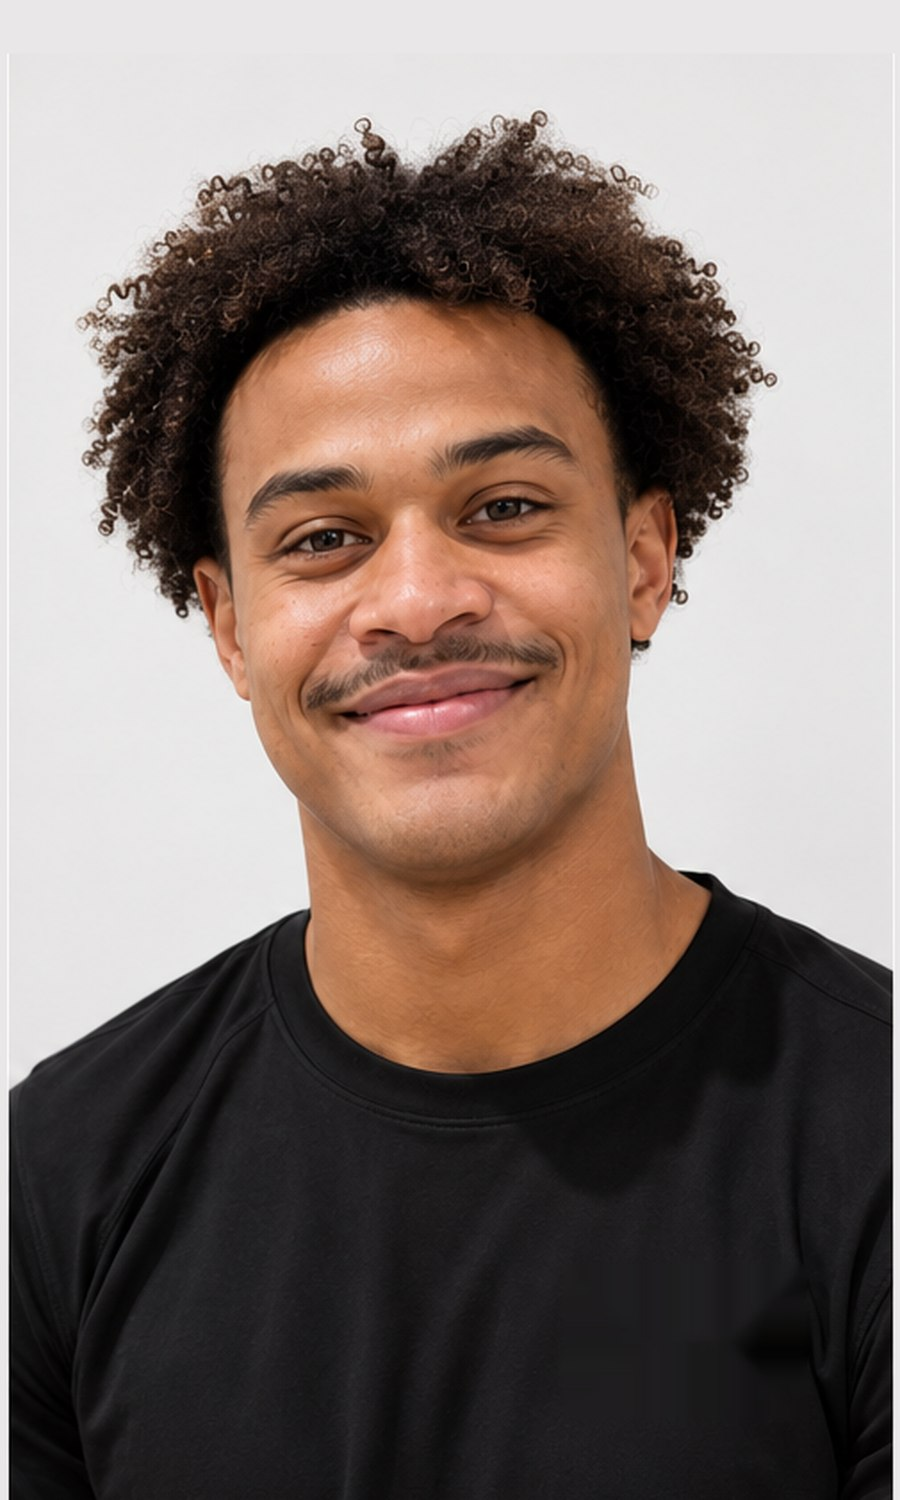
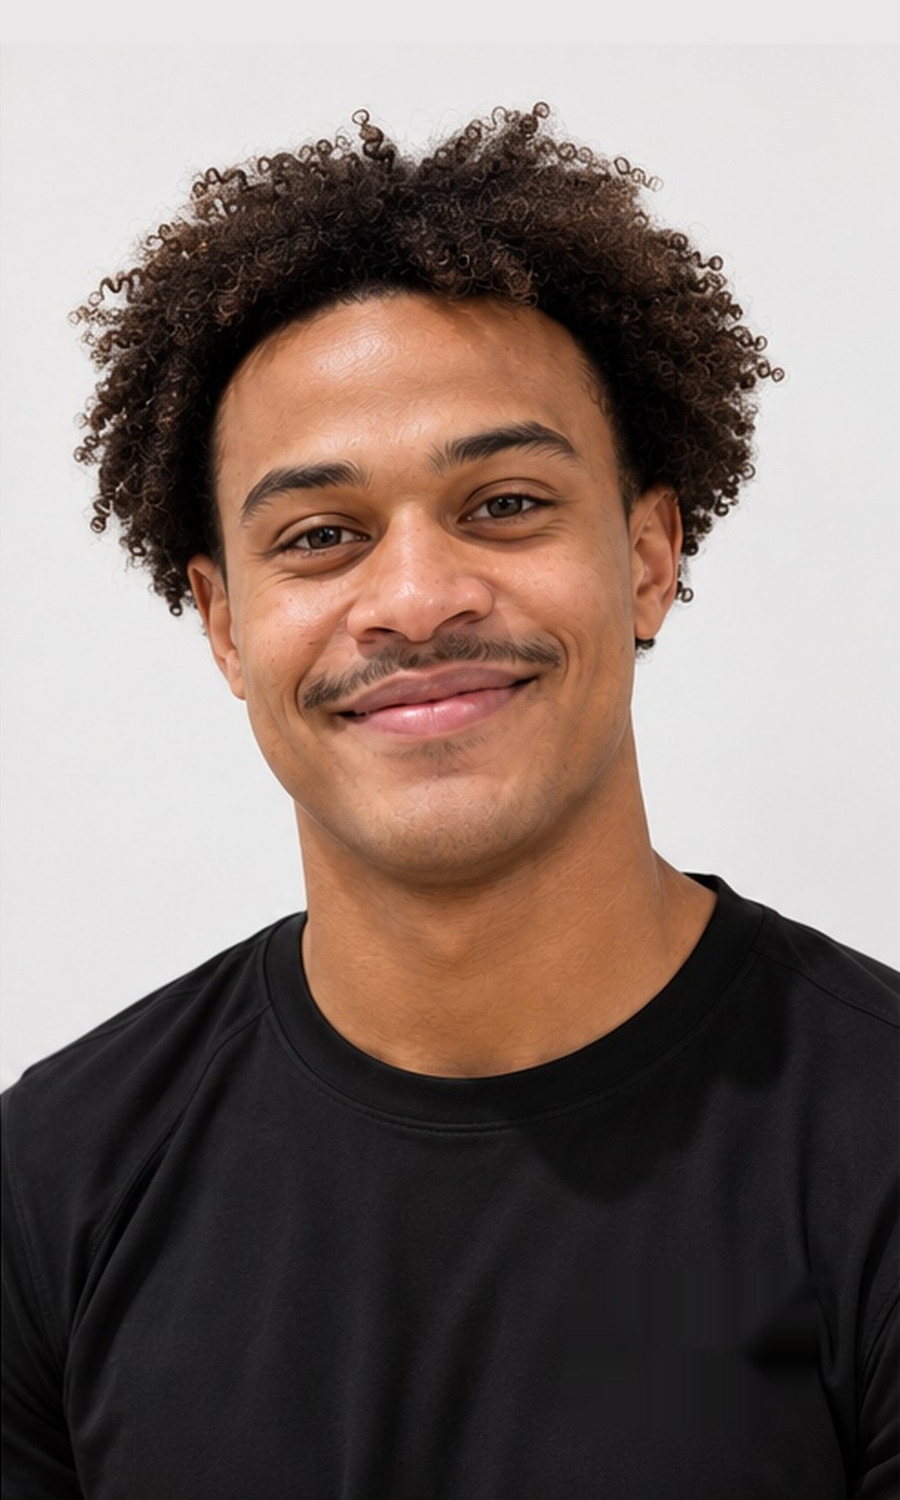
Make the calendar readable, and fix the border on Johnny's headshot
The day cells encoded sport as an 8px dot in orange or black. At that
size the two are a coin flip, and to anyone colour-blind or on a dim
phone screen they carry no information at all. Cells now say BB, VB or
ALL in words, with a count when a day holds more than one of a sport,
and each cell gets an aria-label naming the date and what is on it.

Added the sport filter. The calendar script already listened for
[data-filter] buttons and kept sport in its state — the buttons were
simply never put on the page.

The key was 11px text beside an 8px dot; it is now a real swatch at a
readable size.

On a wide screen the month and the selected day's classes sit side by
side, the panel sticky. It was a screen and a half below the grid, so
clicking a date looked like it did nothing.

Separately: the earlier logo correction left a ~7px bright frame around
Johnny's headshot — edge pixels read 193 against 151 further in, while
every other coach sits within 4, so his card alone showed a border.
Cropped past the halo and resampled; edge delta is now 1.5.

Claude-Session: https://claude.ai/code/session_011Z8dcUaxR3FNyiJKqV5Bn3

diff --git a/schedule.html b/schedule.html
@@ -79,13 +79,45 @@ src="https://www.facebook.com/tr?id=846020845059569&ev=PageView&noscript=1"
   .cal-nav { width:40px; height:40px; border-radius:50%; border:2px solid var(--black); background:var(--white); font-size:17px; line-height:1; cursor:pointer; transition:background .18s, color .18s; }
   .cal-nav:hover { background:var(--black); color:var(--white); }
   .cal-quick { display:flex; flex-wrap:wrap; align-items:center; justify-content:center; gap:10px 16px; max-width:900px; margin:0 auto 18px; }
-  .cal-legend { display:inline-flex; align-items:center; gap:6px; font-family:var(--font-sport); font-size:11px; font-weight:700; letter-spacing:.05em; text-transform:uppercase; color:var(--gray-dark); }
-  .cal-dot { width:8px; height:8px; border-radius:50%; display:inline-block; }
-  .cal-dot--bb { background:var(--orange); }
-  .cal-dot--vb { background:var(--black); }
-  .cal-dot--other { background:#9A9A9A; }
+  /* Sport filter — the calendar script already listened for these; the buttons
+     were simply never on the page. */
+  .cal-filters { display:flex; flex-wrap:wrap; justify-content:center; gap:8px; max-width:900px; margin:0 auto 14px; }
+  .cal-filter-btn { font-family:var(--font-sport); font-size:13px; font-weight:800; letter-spacing:.06em; text-transform:uppercase;
+    padding:9px 20px; border-radius:999px; border:2px solid var(--gray-mid); background:var(--white); color:var(--gray-dark);
+    cursor:pointer; transition:background .15s, color .15s, border-color .15s; min-height:40px; }
+  .cal-filter-btn:hover { border-color:var(--gray-dark); color:var(--near-black); }
+  .cal-filter-btn:focus-visible { outline:3px solid var(--orange); outline-offset:2px; }
+  .cal-filter-btn.active { background:var(--near-black); border-color:var(--near-black); color:var(--white); }
+  .cal-filter-btn--bb.active { background:var(--orange); border-color:var(--orange); }
+
+  /* Key — was 11px text beside an 8px dot. */
+  .cal-key { display:flex; flex-wrap:wrap; align-items:center; justify-content:center; gap:10px 22px; max-width:900px; margin:0 auto 20px; }
+  .cal-key-item { display:inline-flex; align-items:center; gap:8px; font-family:var(--font-sport); font-size:13px; font-weight:700;
+    letter-spacing:.05em; text-transform:uppercase; color:var(--gray-dark); }
+
+  /* Day-cell sport tags: the label carries the meaning, colour only reinforces it. */
+  .cal-tags { display:flex; flex-wrap:wrap; justify-content:center; gap:3px; min-height:16px; }
+  .cal-tag { display:inline-flex; align-items:center; gap:3px; font-family:var(--font-sport); font-size:10px; font-weight:800;
+    letter-spacing:.04em; line-height:1; padding:3px 5px; border-radius:4px; color:var(--white); }
+  .cal-tag i { font-style:normal; font-size:9px; opacity:.85; }
+  .cal-tag--bb { background:var(--orange); }
+  .cal-tag--vb { background:var(--black); }
+  .cal-tag--other { background:#6E6E6E; }
+  .cal-cell--selected .cal-tag--vb { background:var(--white); color:var(--black); }
+  .cal-cell--selected .cal-tag--other { background:var(--white); color:#4A4A4A; }
+  @media (max-width: 720px) {
+    .cal-tag { font-size:9px; padding:2px 4px; }
+    .cal-tag i { display:none; }
+    .cal-filter-btn { font-size:12px; padding:8px 15px; }
+  }
   .cal-closed-key { width:12px; height:12px; border-radius:3px; background:repeating-linear-gradient(45deg,#E4E0D8,#E4E0D8 3px,#F7F5F0 3px,#F7F5F0 6px); border:1px solid #D6D1C7; display:inline-block; }
   .cal-wrap { max-width:900px; margin:0 auto; }
+  .cal-layout { max-width:900px; margin:0 auto; }
+  @media (min-width: 1040px) {
+    .cal-layout { max-width:1180px; display:grid; grid-template-columns:minmax(0,1.3fr) minmax(330px,1fr); gap:32px; align-items:start; }
+    .cal-layout .cal-wrap { max-width:none; }
+    .cal-layout .cal-day-panel { position:sticky; top:104px; max-height:calc(100vh - 130px); overflow-y:auto; margin-top:0; }
+  }
   .cal-grid-head { display:grid; grid-template-columns:repeat(7,minmax(0,1fr)); gap:6px; margin-bottom:6px; }
   .cal-grid-head span { text-align:center; font-family:var(--font-sport); font-size:11px; font-weight:700; letter-spacing:.06em; text-transform:uppercase; color:var(--gray-dark); }
   .cal-grid { display:grid; grid-template-columns:repeat(7,minmax(0,1fr)); gap:6px; }
@@ -97,9 +129,7 @@ src="https://www.facebook.com/tr?id=846020845059569&ev=PageView&noscript=1"
   .cal-cell--closed { background:repeating-linear-gradient(45deg,#EFECE5,#EFECE5 4px,#F7F5F0 4px,#F7F5F0 8px); color:var(--gray-dark); }
   .cal-cell--today { border-color:var(--orange); }
   .cal-cell--selected { border-color:var(--black); background:var(--black); color:var(--white); }
-  .cal-cell--selected .cal-dot--vb { background:var(--white); }
   .cal-num { font-family:var(--font-display); font-weight:900; font-size:15px; }
-  .cal-dots { display:flex; gap:3px; min-height:8px; }
   .cal-note { margin:0 0 14px; padding:9px 12px; border-left:3px solid #D6D1C7; background:#F7F5F0; font-size:13px; line-height:1.45; color:var(--gray-dark); border-radius:0 6px 6px 0; }
   .cal-closed { font-family:var(--font-sport); font-size:9px; font-weight:700; letter-spacing:.04em; text-transform:uppercase; }
   .cal-day-panel { max-width:900px; margin:30px auto 0; }
@@ -411,12 +441,22 @@ src="https://www.facebook.com/tr?id=846020845059569&ev=PageView&noscript=1"
     <div class="cal-quick">
       <button type="button" class="sch-chip" data-jump="today">Today</button>
       <button type="button" class="sch-chip" data-jump="tomorrow">Tomorrow</button>
-      <span class="cal-legend"><span class="cal-dot cal-dot--bb"></span>Basketball</span>
-      <span class="cal-legend"><span class="cal-dot cal-dot--vb"></span>Volleyball</span>
-      <span class="cal-legend"><span class="cal-dot cal-dot--other"></span>Other</span>
-      <span class="cal-legend"><span class="cal-closed-key"></span>Closed</span>
     </div>
 
+    <div class="cal-filters" role="group" aria-label="Filter the calendar by sport">
+      <button type="button" class="cal-filter-btn active" data-filter="sport" data-value="all">All Sports</button>
+      <button type="button" class="cal-filter-btn cal-filter-btn--bb" data-filter="sport" data-value="basketball">Basketball</button>
+      <button type="button" class="cal-filter-btn cal-filter-btn--vb" data-filter="sport" data-value="volleyball">Volleyball</button>
+    </div>
+
+    <div class="cal-key">
+      <span class="cal-key-item"><span class="cal-tag cal-tag--bb">BB</span>Basketball</span>
+      <span class="cal-key-item"><span class="cal-tag cal-tag--vb">VB</span>Volleyball</span>
+      <span class="cal-key-item"><span class="cal-tag cal-tag--other">ALL</span>All Sports</span>
+      <span class="cal-key-item"><span class="cal-closed-key"></span>Closed</span>
+    </div>
+
+    <div class="cal-layout">
     <div class="cal-wrap">
       <div class="cal-grid-head">
         <span>Sun</span><span>Mon</span><span>Tue</span><span>Wed</span><span>Thu</span><span>Fri</span><span>Sat</span>
@@ -425,6 +465,7 @@ src="https://www.facebook.com/tr?id=846020845059569&ev=PageView&noscript=1"
     </div>
 
     <div id="dayPanel" class="cal-day-panel"></div>
+    </div>
     <p class="sch-note" id="schEmpty" hidden style="text-align:center; margin-top:20px;"></p>
   </div>
 </section>
@@ -637,10 +678,12 @@ src="https://www.facebook.com/tr?id=846020845059569&ev=PageView&noscript=1"
     return new Intl.DateTimeFormat('en-US', { weekday: 'long', month: 'long', day: 'numeric', timeZone: 'UTC' }).format(d);
   }
 
-  function sportClass(c) {
+  function sportKey(c) {
     var s = (c.sport || '').toLowerCase();
-    return s.indexOf('basket') === 0 ? 'cal-dot--bb' : (s.indexOf('volley') === 0 ? 'cal-dot--vb' : 'cal-dot--other');
+    return s.indexOf('basket') === 0 ? 'bb' : (s.indexOf('volley') === 0 ? 'vb' : 'other');
   }
+  var KEY_SHORT = { bb: 'BB', vb: 'VB', other: 'ALL' };
+  var KEY_FULL  = { bb: 'Basketball', vb: 'Volleyball', other: 'All sports' };
   function matches(c) {
     if (state.sport !== 'all') {
       var s = (c.sport || '').toLowerCase();
@@ -696,19 +739,28 @@ src="https://www.facebook.com/tr?id=846020845059569&ev=PageView&noscript=1"
       if (key === state.selected) cls += ' cal-cell--selected';
       if (!list.length && !closed) cls += ' cal-cell--quiet';
 
-      var dots = '';
-      if (!closed) {
-        var seen = {};
-        list.forEach(function (c) {
-          var k = sportClass(c);
-          if (seen[k]) return;
-          seen[k] = 1;
-          dots += '<span class="cal-dot ' + k + '"></span>';
+      // Two 8px dots that differ only in colour asked people to decode orange
+      // vs black at a glance, and told a colour-blind or low-vision visitor
+      // nothing at all. The cell now says BB or VB in words, with a count when
+      // a day holds more than one of a sport.
+      var tags = '', aria = prettyDate(key);
+      if (closed) {
+        aria += ' — closed';
+      } else {
+        var counts = {};
+        list.forEach(function (c) { var k = sportKey(c); counts[k] = (counts[k] || 0) + 1; });
+        ['bb', 'vb', 'other'].forEach(function (k) {
+          if (!counts[k]) return;
+          tags += '<span class="cal-tag cal-tag--' + k + '">' + KEY_SHORT[k] +
+                  (counts[k] > 1 ? '<i>' + counts[k] + '</i>' : '') + '</span>';
+          aria += ', ' + KEY_FULL[k] + ' ' + counts[k] + (counts[k] === 1 ? ' class' : ' classes');
         });
+        if (!tags) aria += ' — nothing scheduled';
       }
-      html += '<button type="button" class="' + cls + '" data-date="' + key + '">' +
+      html += '<button type="button" class="' + cls + '" data-date="' + key + '"' +
+                ' aria-label="' + aria.replace(/"/g, '&quot;') + '">' +
                 '<span class="cal-num">' + d + '</span>' +
-                (closed ? '<span class="cal-closed">Closed</span>' : '<span class="cal-dots">' + dots + '</span>') +
+                (closed ? '<span class="cal-closed">Closed</span>' : '<span class="cal-tags">' + tags + '</span>') +
               '</button>';
     }
     grid.innerHTML = html;
@@ -788,7 +840,10 @@ src="https://www.facebook.com/tr?id=846020845059569&ev=PageView&noscript=1"
       if (!btn) return;
       state.selected = btn.getAttribute('data-date');
       renderAll();
-      document.getElementById('dayPanel').scrollIntoView({ behavior: 'smooth', block: 'nearest' });
+      // Side by side on a wide screen, so there is nothing to scroll to.
+      if (!window.matchMedia('(min-width: 1040px)').matches) {
+        document.getElementById('dayPanel').scrollIntoView({ behavior: 'smooth', block: 'nearest' });
+      }
     });
     document.querySelectorAll('[data-jump]').forEach(function (b) {
       b.addEventListener('click', function () {
